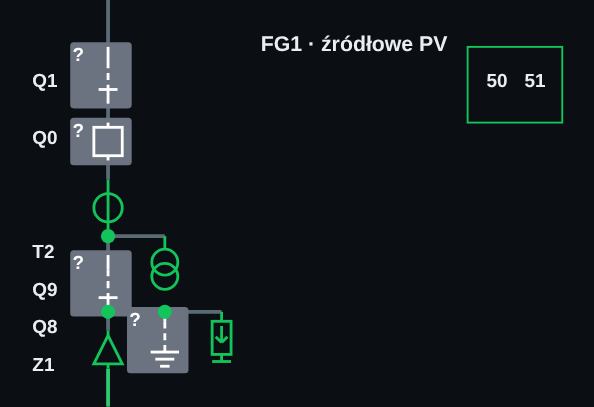
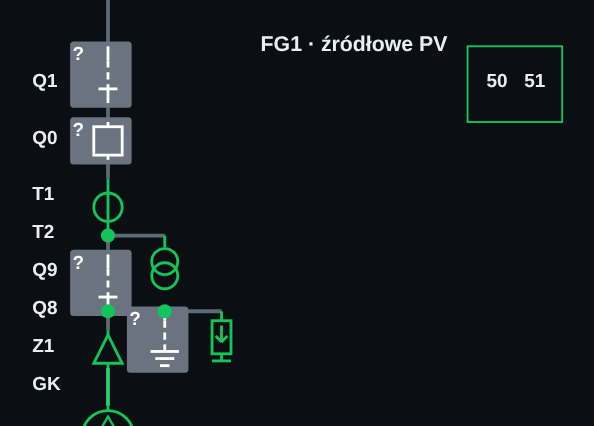
RAMKA-PRZEKAZNIKA (następca): zrzuty po zmianie i wpis karty z inwentarzem klasy i pomiarem
Bieg e2e pod blokadą (ux04-blok-zabezpieczen + ux04-pole-liniowe, 4 passed, ZRZUTY_DO_DOKUMENTACJI=1):
zmienił się wyłącznie kadr pola źródła OZE stacji (oznaczenia T1, T2, GK z rekordu w kolumnie
oznaczeń), pozostałe zrzuty bloku i pola liniowego bajtowo bez zmian. UX04 §11.20: inwentarz klasy,
naprawy, testy iloczynu z iniekcjami, pomiar przed/po (scena LOD2).

Claude-Session: https://claude.ai/code/session_01GqLcr9eyQ69ruf1CauSKYs

diff --git a/mv-design-pro/docs/uiux/UX04_POLE_LINIOWE_WZORZEC.md b/mv-design-pro/docs/uiux/UX04_POLE_LINIOWE_WZORZEC.md
@@ -2460,3 +2460,50 @@ i Z.11; spek bloku — kolumna oznaczeń w kadrach pola stacji, GPZ i źródła 
 Zrzuty: `docs/uiux/zrzuty/ux04-pole-liniowe/` (oba motywy: `pole-z11-1-*`, `pole-z11-*`,
 `blok-*`); stan przed wzorcem: `przed/<kadr>-przed-v3.png` z drzewa `9dafb6083`. Werdykt
 wizualny — właściciel (B-02).
+
+#### Klasa wzorca pola — ramka bloku i kolumna opisów w każdym polu z EAZ (karta RAMKA-PRZEKAZNIKA, następca 2026-11-11) → wykonanie → test
+
+**Inwentarz klasy (kompozytory pól w `frontend/src/ui/sld/v3/compose/**`).** Blok zabezpieczeń:
+jedna funkcja `blokZabezpieczenPola.ts::ulozBlokZabezpieczenPola` — pola sekcji GPZ i pola toru
+transformatora GPZ (`gpz.ts::adnotacjePolaGpz`), pola SN stacji, w tym sprzęgło, pole TR i pole
+źródła OZE (`station.ts::composeStation`). Kolumna opisów (`kolumnaOpisowPola.ts`): pola sekcji
+GPZ i pola stacji — używały; **pola toru transformatora GPZ (wieża) — nie używały** (tabliczki po
+prawej symbolu, bez kolumny oznaczeń). Oznaczenia: **pola GPZ rysowane symbolami kanonicznymi —
+bez oznaczeń** (warunek „pole bez symboli QET — bez etykiet”; sonda 59 fikstur, LOD2: 8 bloków
+GPZ bez kolumny — ścieżka danych zabezpieczeń, pole BKR, pola źródeł OZE w GPZ); **pola stacji —
+bez oznaczeń aparatów spoza konwencji §19.1** (T1, T2, GK z rekordu); **oznaczenia przekładników
+stacji nie były na LOD1** (w GPZ były — dwie reguły). Świadomie poza klasą: tor źródła OZE pod
+transformatorem blokowym (`composeDerSnChain`) i kolumna transformatora bez pola
+(`composeImplicitTransformerColumn`) — to nie są pola i nie niosą funkcji EAZ.
+
+**Naprawy.** `gpz.ts`: oznaczenie każdego aparatu z rekordem (`tekstyEtykietAparatowGpz`), jedna
+funkcja kolumn opisów i zacisków P1/P2 dla pól sekcji i toru transformatora
+(`kolumnyOpisowPolaGpz`), zasięg wieży rezerwuje pasy opisów po lewej tą samą funkcją
+(`zasiegWiezy` ← `pasyOpisowPolaGpz`), jedna rozdzielczość opisów przekładników dla wierszy
+i rysunku (`KolumnaPrzekladniPolaGpz`); martwa ścieżka tabliczki po prawej symbolu skasowana.
+`kolumnaOpisowPola.ts`: oznaczenie z rekordu dla aparatów bez identyfikatora konwencji,
+`RODZAJE_PRZEKLADNIKOW_OD_LOD1` wspólne dla GPZ i stacji. `buildScene.ts`: jedna reguła poziomu
+szczegółu oznaczeń pola GPZ i stacji; wyrocznia `apparatusIdentifierGaps` liczy aparaty
+z oznaczeniem z rekordu.
+
+**Testy.** `scene/__tests__/kolumnaOpisowPolaKlasa.contract.test.ts` — rodzaj pola {GPZ
+z powiązaniami (QET), GPZ bez powiązań (kanoniczne), źródło OZE w GPZ, tor transformatora GPZ,
+liniowe stacji, sprzęgło, TR stacji, źródło OZE stacji} × LOD {0, 1, 2} × EAZ {są, brak} ×
+przekładniki {są, brak}; wyrocznie (A) blok wtedy i tylko wtedy, gdy EAZ na LOD1/2, (B) oznaczenie
+rekordu każdego aparatu w kolumnie (LOD2; przekładniki od LOD1), (C) opisy przekładników tylko
+LOD2 i tylko przy przekładnikach, (D) ramka na prawo od kolumn, (E) wyrocznie kolumn i kodów
+ramki; pokrycie przypięte; iniekcje sceny w każdym rodzaju pola. Fikstury wspólne z kontraktem
+bloku: `scene/__tests__/fixtures/polaZFunkcjamiEaz.ts`. Na drzewie bez naprawy (`f385804e4`):
+46 z 48 testów czerwonych. Iniekcje w kodzie (każda czerwona, plik przywrócony): wieża bez
+kolumny — 6, warunek QET — 12, stacja bez oznaczenia z rekordu — 16, stacja bez `odLod` — 9,
+blok zdjęty w polu źródła OZE stacji — 4.
+
+**Pomiar (scena LOD2, j.św., kody 50/51/51N; przed = `f385804e4`, po = karta).** Liczba opisów
+w kolumnach: GPZ bez powiązań 1 → 6, źródło OZE w GPZ 0 → 8, tor transformatora GPZ 2 → 9
+(opisy stały za torem: odstęp opis→aparaty −110 → 18), liniowe stacji 4 → 6, źródło OZE stacji
+5 → 7, TR stacji 5 → 6; GPZ z powiązaniami, sprzęgło — bez zmian (9, 4). Szerokość rysunku pola:
+GPZ bez powiązań 216 → 248, OZE w GPZ 104 → 144, tor TR GPZ 136 → 224, pola stacji bez zmian
+(104/112). Linia wyłączania Q0 → ramka bez zmian we wszystkich rodzajach (32; pole OZE w GPZ bez
+łącznika wyłączanego w modelu — 0); odstęp lewa krawędź ramki − prawa krawędź toru głównego bez
+zmian (8–24). Zrzuty e2e: zmienił się kadr `blok-pole-zrodla-oze-*` (oznaczenia T1, T2, GK);
+pozostałe kadry bloku i pola liniowego bajtowo bez zmian. Werdykt wizualny — właściciel (B-02).
